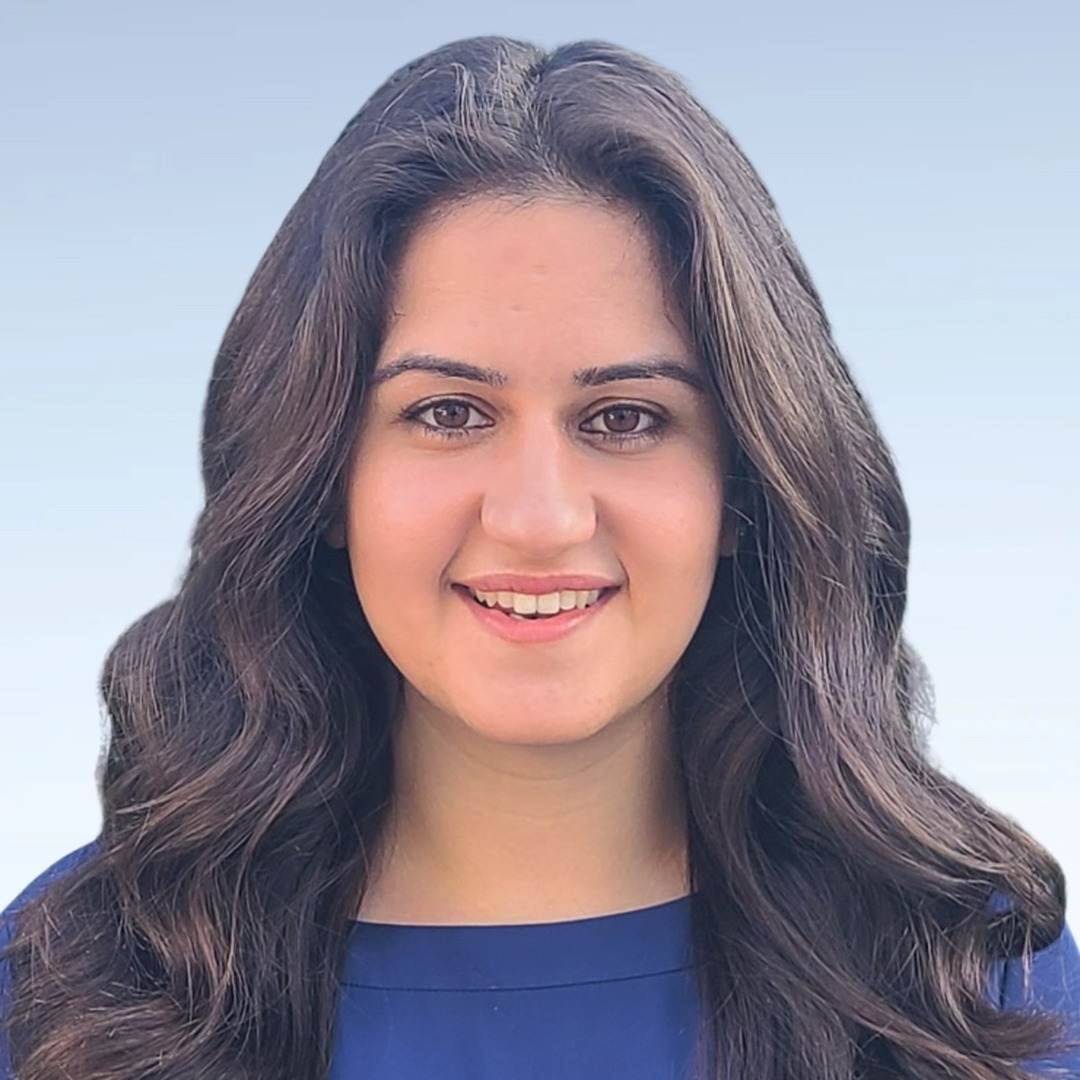
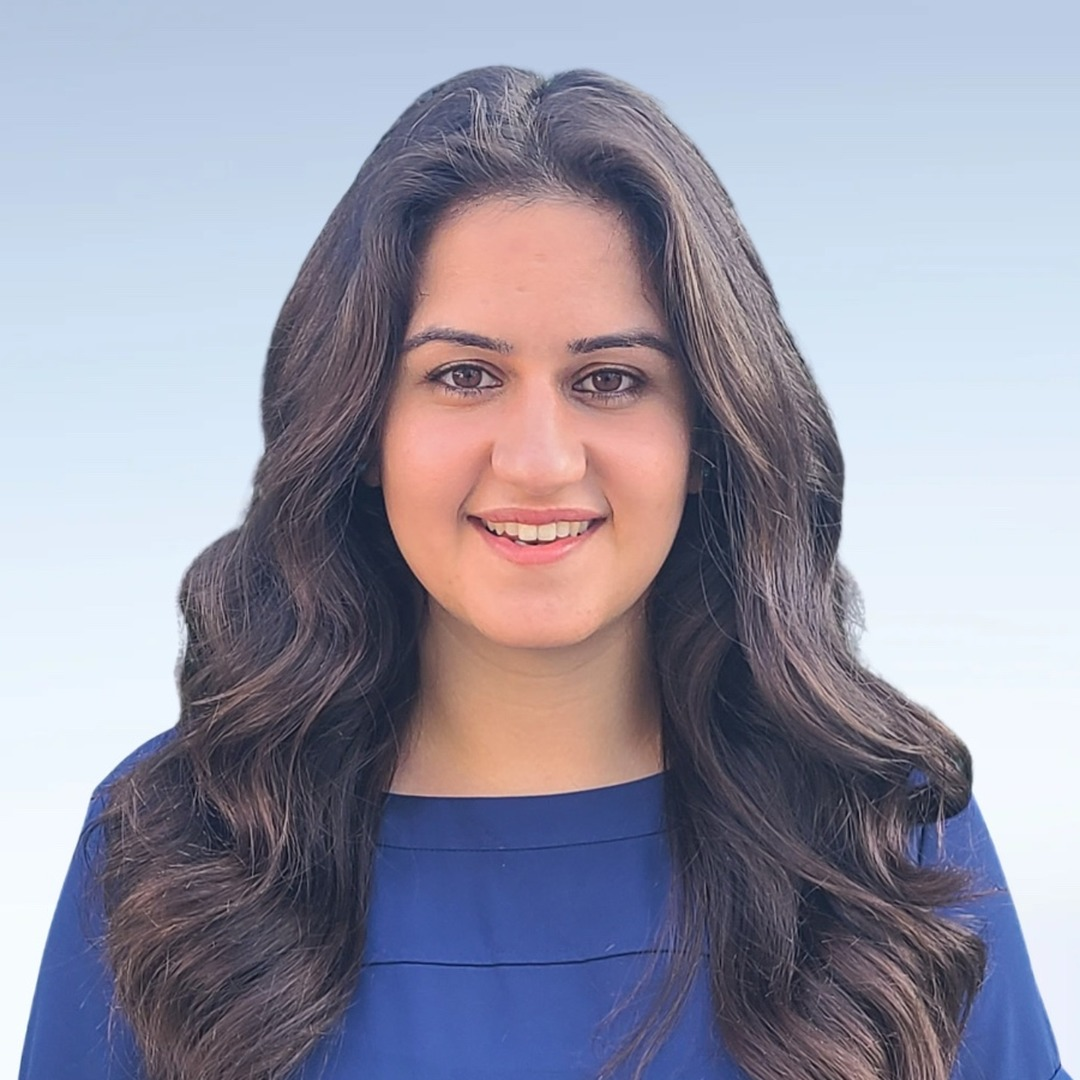
Zoom out Dr. Nathalie Karimian's photo to match other Lead Guides
Claude-Session: https://claude.ai/code/session_01UY2yYSyHezMTLTrkPybDFD

diff --git a/team.html b/team.html
@@ -118,7 +118,7 @@
           <a class="more" href="adlea-lead-guide-bios.html#luiza-cortezian">Learn more &#8594;</a>
         </div>
         <div class="team-card">
-          <div class="team-photo"><img src="assets/nathalie-karimian.jpg" alt="Dr. Nathalie Karimian"></div>
+          <div class="team-photo"><img src="assets/nathalie-karimian.jpg?v=2" alt="Dr. Nathalie Karimian"></div>
           <h3>Dr. Nathalie Karimian</h3>
           <p class="role"><a href="adlea-leadership-roles.html#learning-guide">Teaching and Learning Guide</a></p>
           <a class="more" href="adlea-lead-guide-bios.html#nathalie-karimian">Learn more &#8594;</a>

diff --git a/adlea-lead-guide-bios.html b/adlea-lead-guide-bios.html
@@ -185,7 +185,7 @@
       </div>
 
       <div id="nathalie-karimian" class="bio-section">
-        <div class="bio-photo"><img src="assets/nathalie-karimian.jpg" alt="Dr. Nathalie Karimian"></div>
+        <div class="bio-photo"><img src="assets/nathalie-karimian.jpg?v=2" alt="Dr. Nathalie Karimian"></div>
         <div class="bio-text">
           <span class="eyebrow">Lead Guide</span>
           <h2>Dr. Nathalie Karimian</h2>
